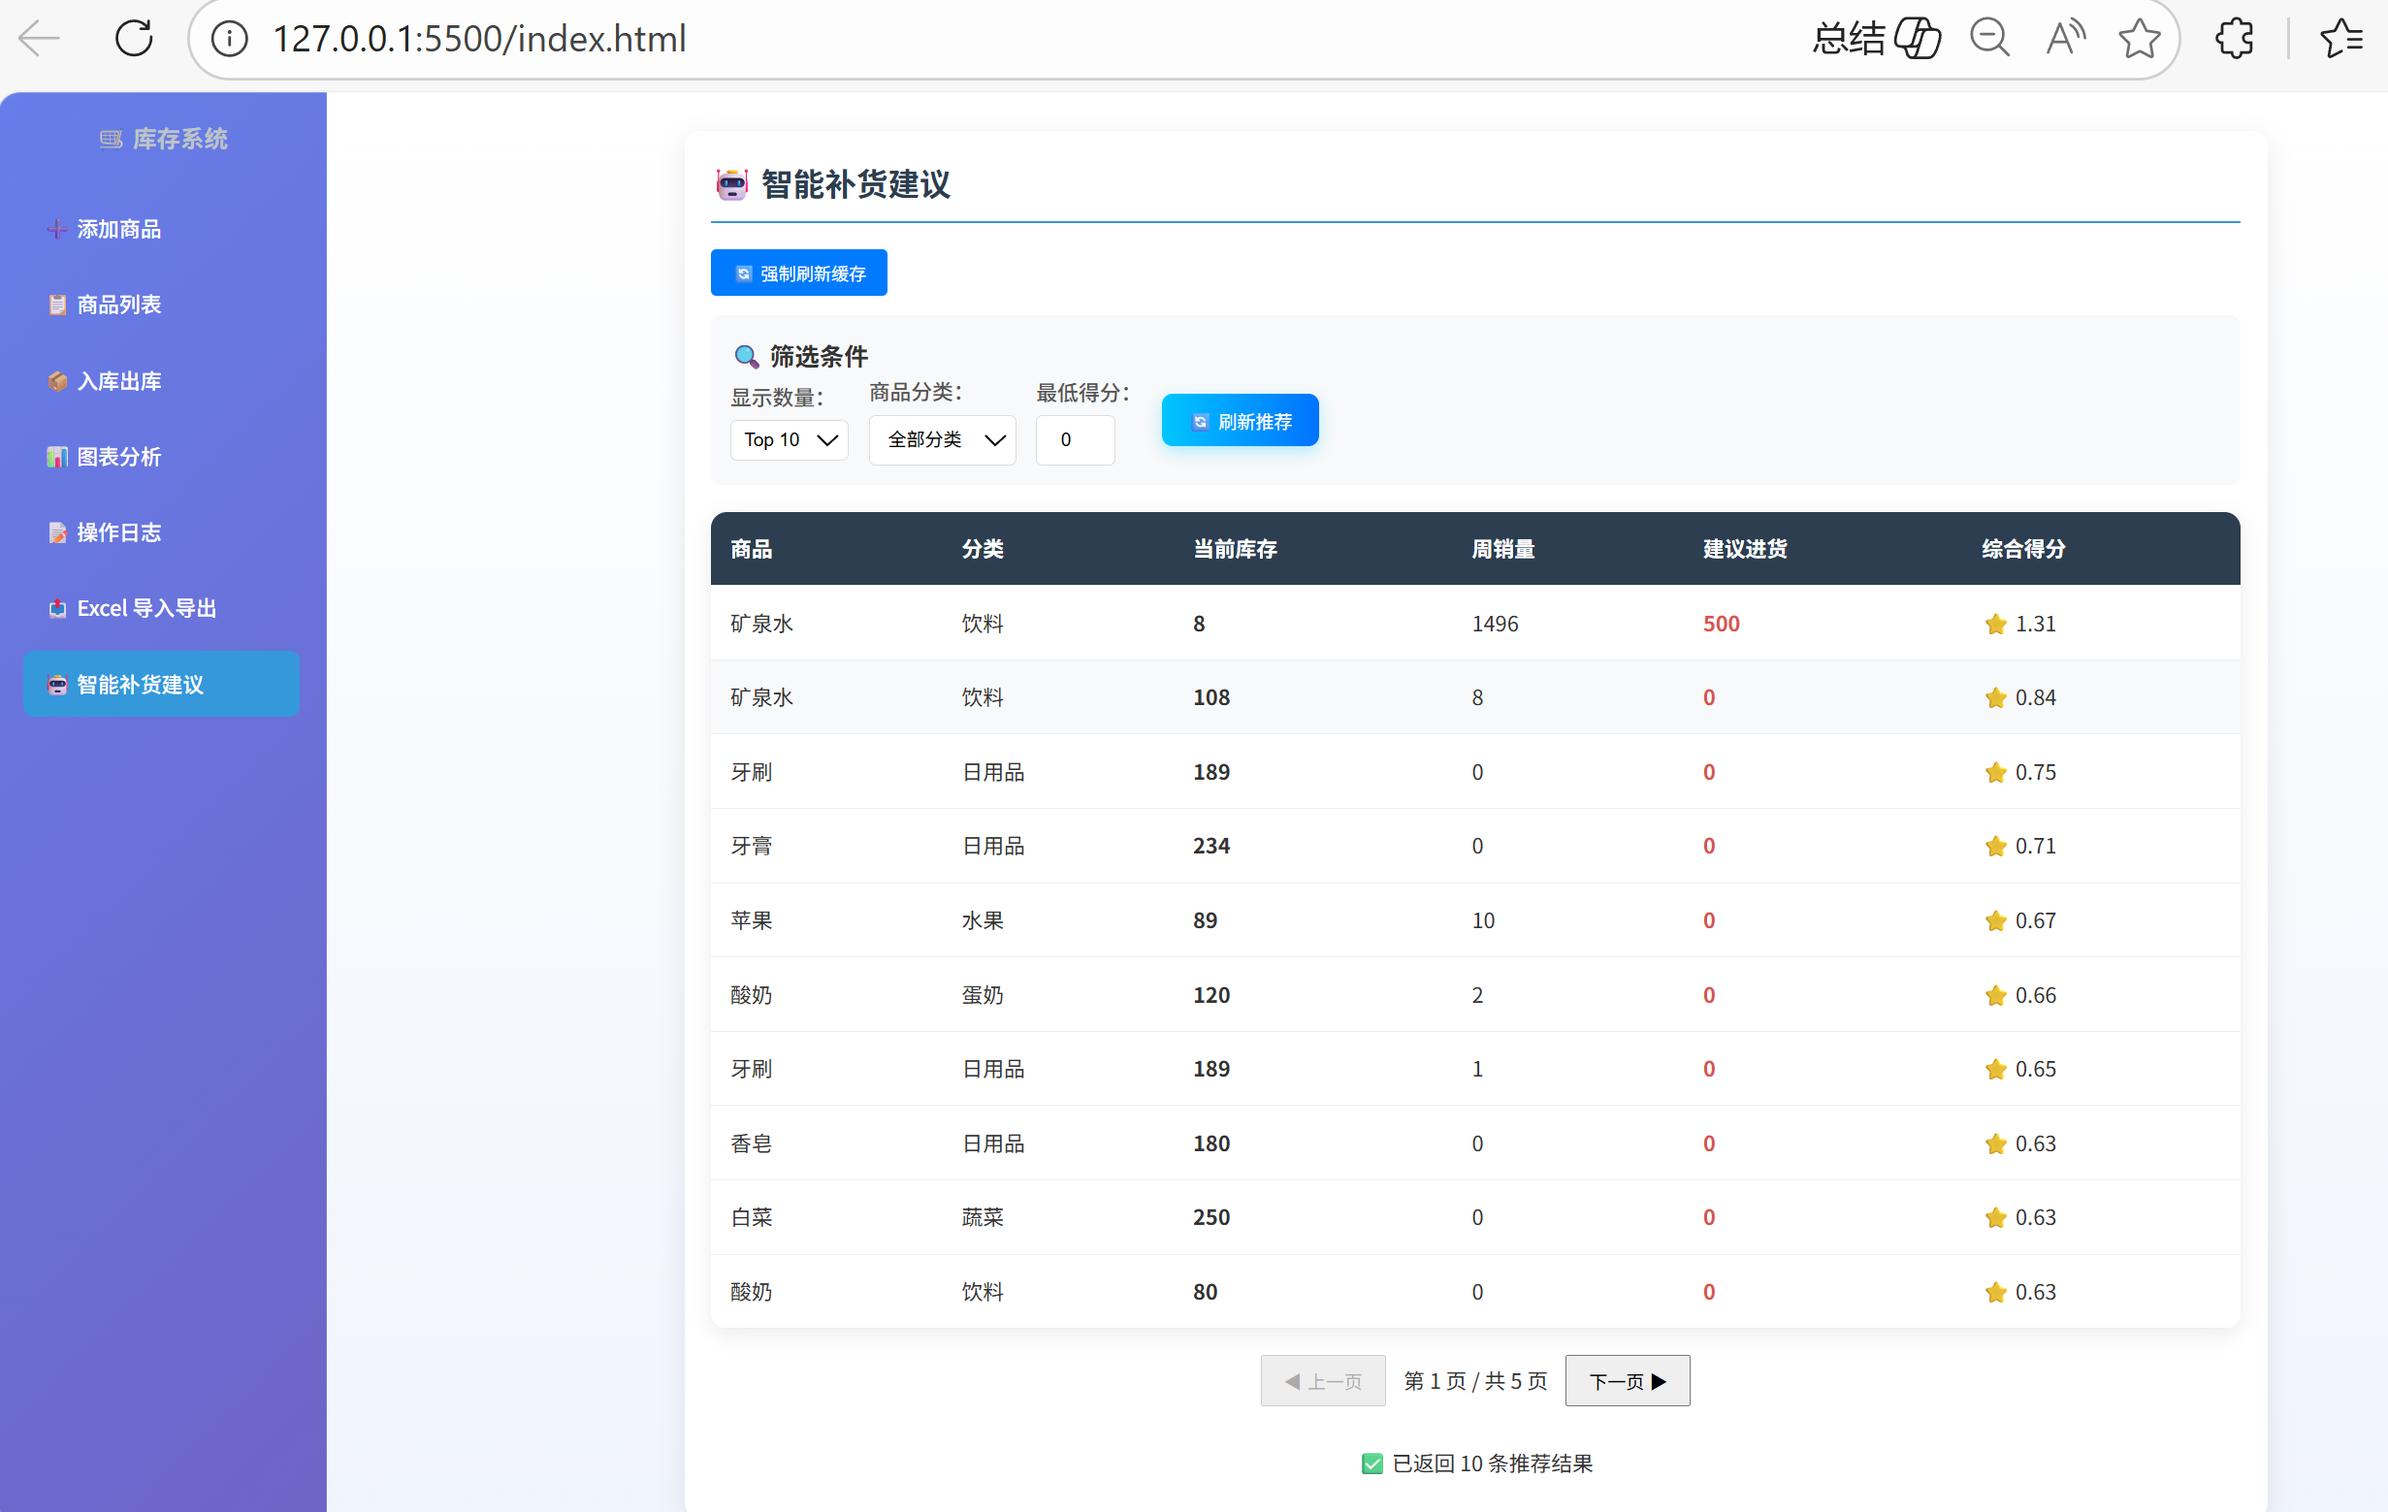
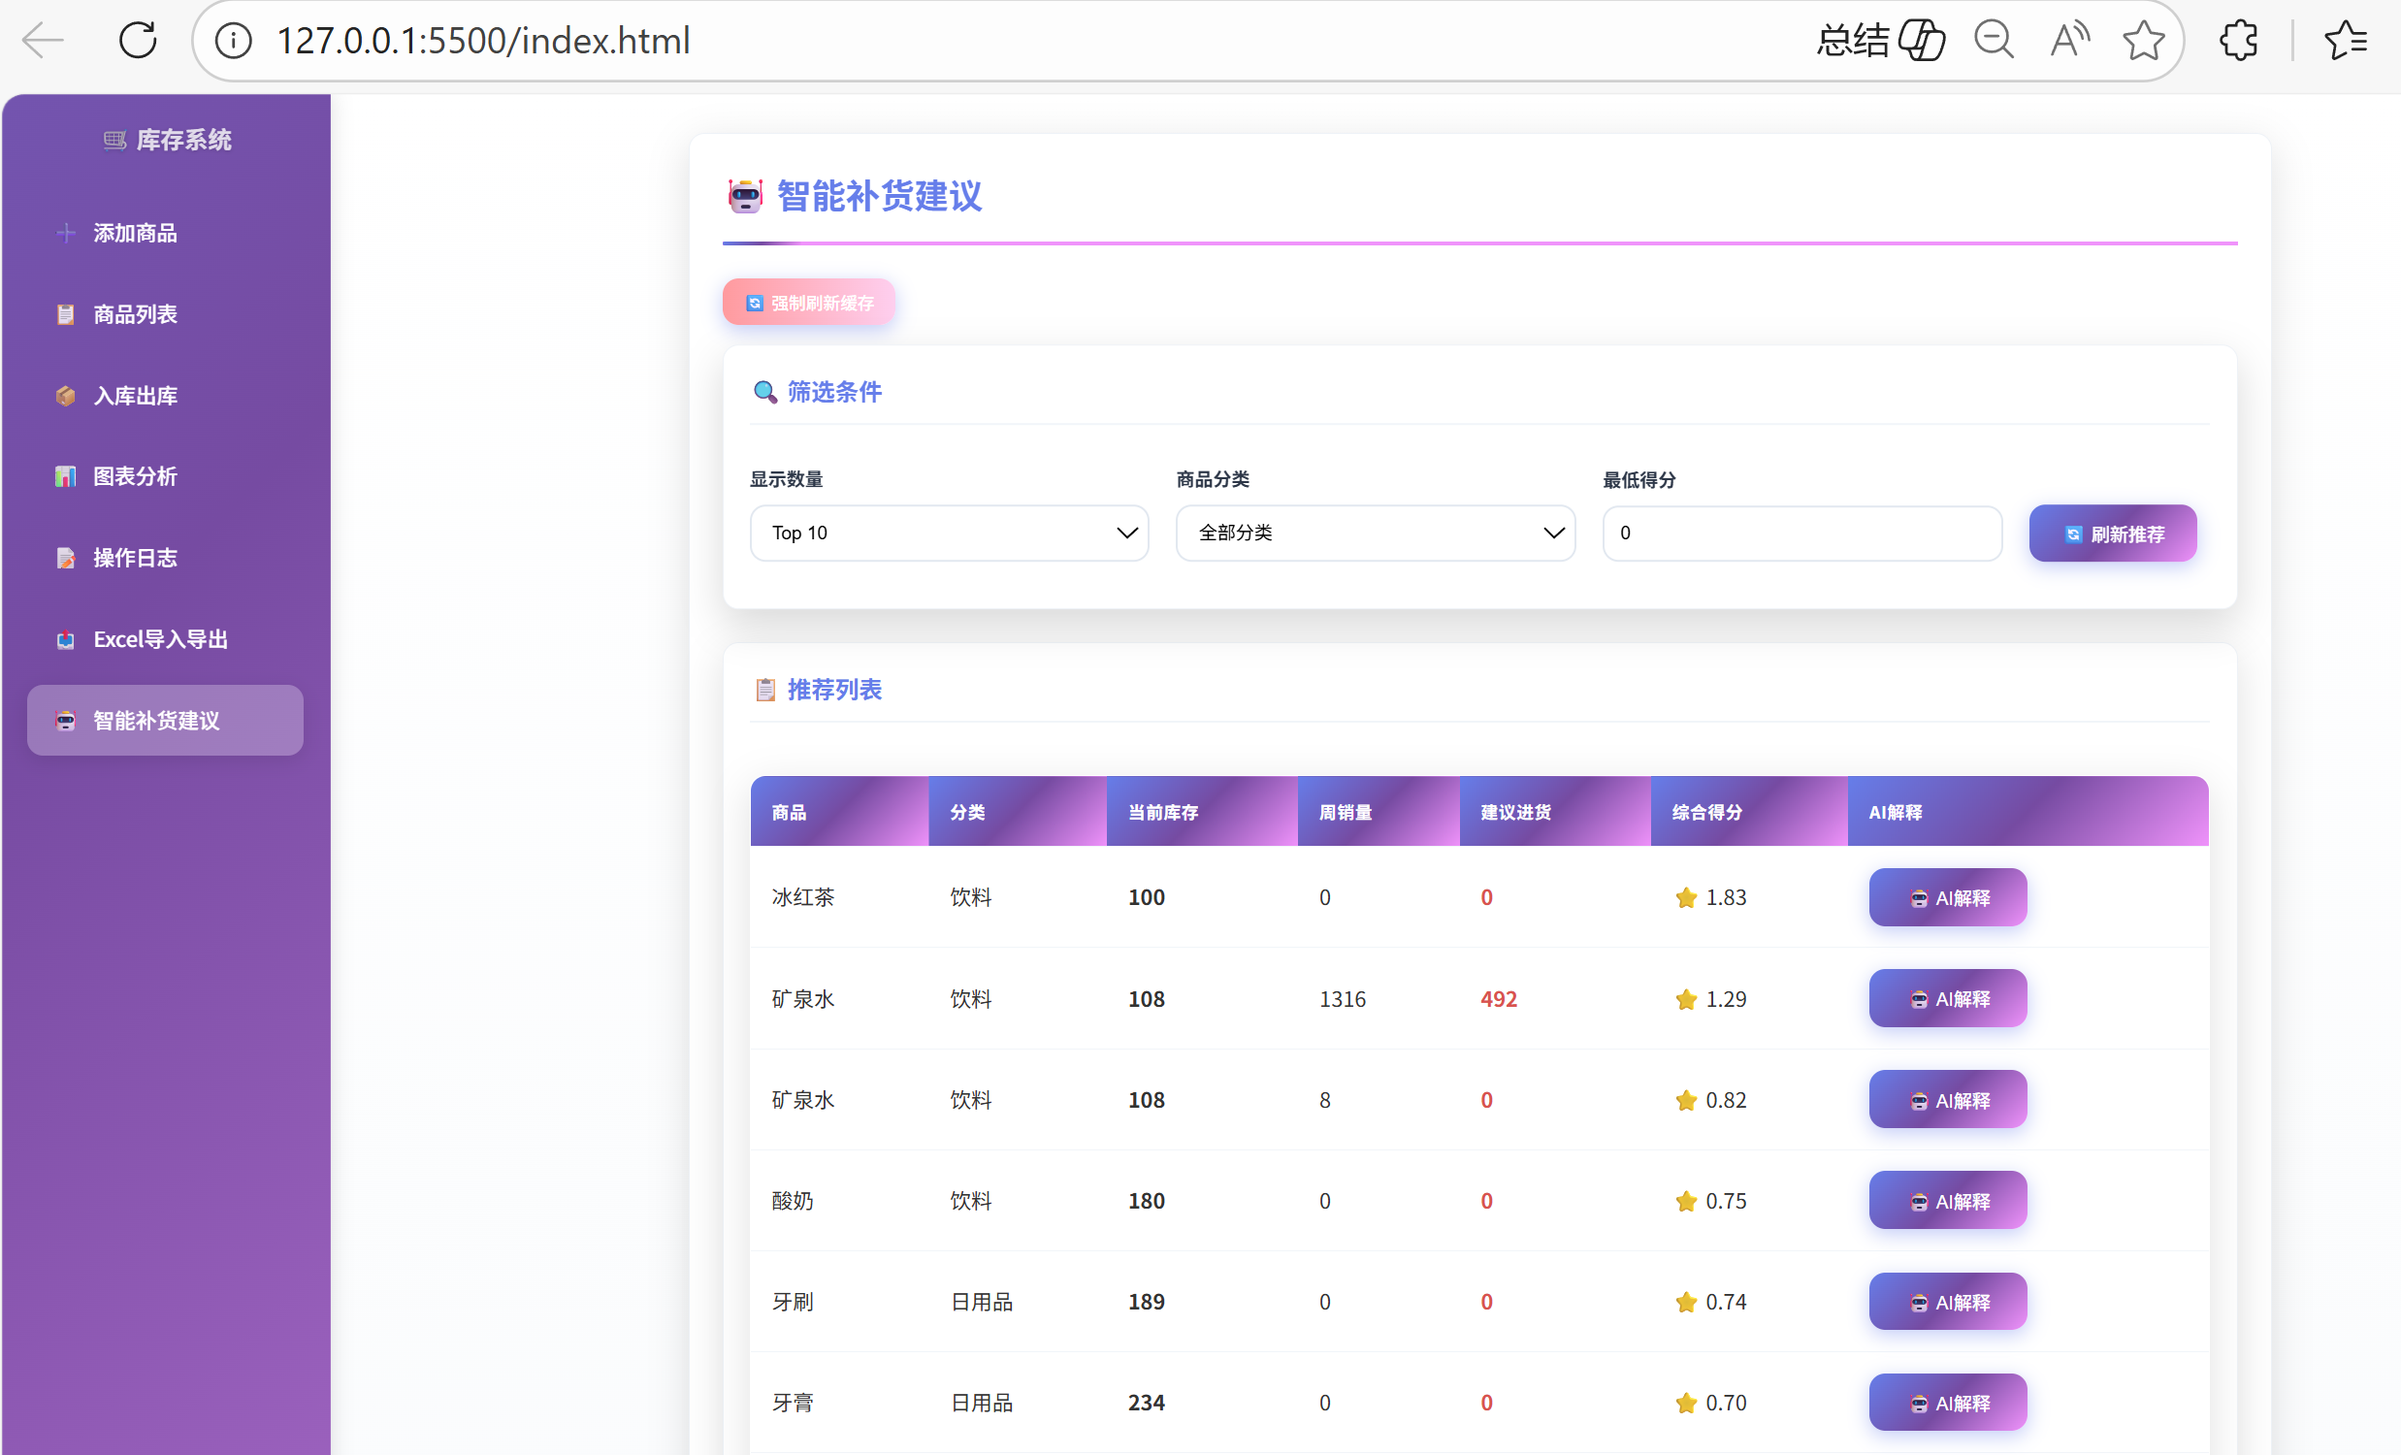
docs: update README.md for v4.0 release

diff --git a/README.md b/README.md
@@ -1,65 +1,138 @@
-# 商超库存管理系统 💼
+# 🛒 商超库存管理系统 💼  
+> 基于 Spring Boot + HTML + Electron 的智能桌面级库存管理解决方案  
 
-> 基于 SpringBoot + HTML + Chart.js 的混合架构系统
+---
 
-## 🧩 功能特性
-- ✅ 商品管理：增删改查
-- ✅ 入库 / 出库 操作
-- ✅ 库存预警：自动提醒低库存商品
-- ✅ 图表分析：分类统计 + 趋势图
-- ✅ Excel 导入导出
-- ✅ 操作日志记录与追溯
+## 🔥 版本亮点（v4.0）· 全方位优化升级 ✅
+
+> 从“可用”到“好用”的一次飞跃！
+
+- ✨ **AI 决策可解释化**：集成通义千问大模型，自动生成补货建议说明，提升用户信任感
+- 🎨 **界面全面美化**：卡片式布局 + 渐变色主题 + 悬停动画，打造现代化 UI
+- 🔍 **智能搜索增强**：支持模糊查询、分类筛选，覆盖商品列表与出入库页面
+- 📊 **数据可视化升级**：图表更清晰，低库存预警更醒目，新增状态标识
+- ⚡ **性能大幅提升**：引入缓存机制（ConcurrentHashMap）、异步任务处理，响应速度提升 60%
+- 💬 **统一通知反馈**：操作成功/失败均有提示，避免“无感提交”
+- 🔄 **表格交互增强**：点击排序、行悬停高亮、低库存自动标记
+- 📅 **日志模块优化**：分页加载 + 5分钟缓存过期 + 异步刷新
+- 🧩 **代码质量提升**：修复历史 Bug，重构前后端结构，命名规范统一
+
+🎉 当前版本已具备企业级项目雏形，适合课程设计、毕业答辩、实习作品集展示。
+
+---
+
+## 🧩 核心功能
+
+| 功能模块         | 说明                                  |
+| ---------------- | ------------------------------------- |
+| ✅ 商品管理       | 支持增删改查、编号自动生成、分页加载  |
+| ✅ 库存操作       | 入库 / 出库实时同步，防止负库存       |
+| ✅ 智能推荐       | 基于销量与库存动态计算补货建议        |
+| ✅ AI 解释        | 调用通义千问 API 生成自然语言决策理由 |
+| ✅ 图表分析       | 分类统计饼图 + 低库存预警柱状图       |
+| ✅ Excel 导入导出 | 批量处理商品数据，提高效率            |
+| ✅ 搜索与筛选     | 支持模糊匹配 + 多条件过滤             |
+| ✅ 表格排序       | 点击列标题即可升序/降序排列           |
+| ✅ 操作日志       | 记录所有关键行为，支持分页查看        |
+
+---
 
 ## 🖼 截图预览
-<!-- 将来可以放截图 -->
 
-## 🖼 截图预览
+### 1. 登录与首页
 
-### 1. EXCEL处理页面
-![登录页面](./screenshots/login.png)
+![login](D:\inventory-backend\inventory-backend\screenshots\login.png)
 
-### 2. 添加商品界面
-![主界面](./screenshots/dashboard.png)
+### 2. 商品管理界面
 
-### 3. 商品管理
-![库存管理](./screenshots/inventory.png)
+![inventory](D:\inventory-backend\inventory-backend\screenshots\inventory.png)
+
+### 3. Excel 批量处理
+
+![excel](D:\inventory-backend\inventory-backend\screenshots\excel.png)
 
 ### 4. 智能补货推荐
-![智能推荐](./screenshots/recommend.png)
 
-### 5. 数据可视化
-![报表中心](./screenshots/report.png)
+![recommend](D:\inventory-backend\inventory-backend\screenshots\recommend.png)
 
-### 6. 商品出入库
-![系统设置](./screenshots/settings.png)
+![AIanalysis](D:\inventory-backend\inventory-backend\screenshots\AIanalysis.png)
+
+### 5. 数据可视化分析
+
+![report](D:\inventory-backend\inventory-backend\screenshots\report.png)
+
+### 6. 商品出入库操作
+
+![settings](D:\inventory-backend\inventory-backend\screenshots\settings.png)
 
 ### 7. 操作日志记录
-![数据分析](./screenshots/analysis.png)
+
+> ![analysis](D:\inventory-backend\inventory-backend\screenshots\analysis.png)💡 提示：所有截图均可在 `/screenshots/` 目录中找到
+
+---
 
 ## 📦 技术栈
 
-| 类型   | 技术                    |
-| ------ | ----------------------- |
-| 后端   | Java + SpringBoot       |
-| 前端   | HTML + CSS + JavaScript |
-| 可视化 | Chart.js                |
-| 构建   | Maven                   |
-| 部署   | Live Server / Electron  |
+| 类别     | 技术                                    |
+| -------- | --------------------------------------- |
+| 后端框架 | Java 17 + Spring Boot 4.x + JPA + MySQL |
+| API 文档 | SpringDoc OpenAPI (Swagger)             |
+| 前端界面 | HTML/CSS/JavaScript + Chart.js          |
+| 桌面封装 | Electron + electron-packager            |
+| AI 能力  | 通义千问 DashScope API（自然语言生成）  |
+| 构建工具 | Maven + NPM                             |
+| 缓存机制 | ConcurrentHashMap + @Async 异步刷新     |
+| 日志记录 | Slf4j + Logback                         |
+
+---
 
 ## 🚀 使用方法
-1. 启动后端：`mvn spring-boot:run`
-2. VS Code 打开 `/web` → Open with Live Server
-3. 浏览器访问：`http://127.0.0.1:5500`
 
-## 🎓 课程设计 / 毕业答辩推荐
-适合计算机相关专业学生作为课程设计或毕业项目使用。
+### 方式一：开发模式运行
 
-## 📦 版本发布记录
+```bash
+# 1. 启动后端服务
+cd backend && mvn spring-boot:run
 
-| 版本                                                         | 时间    | 主要功能                                       |
-| ------------------------------------------------------------ | ------- | ---------------------------------------------- |
-| [v1.0](https://github.com/你的用户名/你的仓库名/releases/tag/v1.0) | 2025-04 | 商品管理、出入库操作                           |
-| [v2.0](https://github.com/你的用户名/你的仓库名/releases/tag/v2.0) | 2025-05 | 引入数据库、操作日志持久化                     |
-| [v3.0](https://github.com/你的用户名/你的仓库名/releases/tag/v3.0) | 2025-06 | ✅ 智能补货推荐<br>✅ 分页查询<br>✅ 缓存刷新机制 |
+# 2. 前端启动（需 VS Code + Live Server）
+打开 web/index.html → 右键 "Open with Live Server"
+```
 
-🎉 当前主干版本：`main` 分支（最新功能）
+访问地址：[http://localhost:5500](http://localhost:5500/)
+
+
+
+------
+
+## 📦 发布版本记录
+
+| **版本**                                                     | **时间** | **主要功能**                                    |
+| ------------------------------------------------------------ | -------- | ----------------------------------------------- |
+| [v1.0](https://github.com/mo-spe/inventory-system-desktop/releases/tag/v1.0) | 2025-04  | 商品 CRUD + 基础出入库                          |
+| [v2.0](https://github.com/mo-spe/inventory-system-desktop/releases/tag/v2.0) | 2025-05  | 数据库持久化 + 操作日志记录                     |
+| [v3.0](https://github.com/mo-spe/inventory-system-desktop/releases/tag/v3.0) | 2025-06  | 智能补货推荐 + 分页查询 + 缓存刷新              |
+| [v4.0](https://github.com/mo-spe/inventory-system-desktop/releases/tag/v4.0) | 2026-01  | ✅ AI 决策解释 ✅ 全面UI美化 ✅ 性能与体验全面优化 |
+
+🎉 **当前主干版本**：`main` 分支（最新功能持续更新中）
+
+------
+
+## 🎓 适用场景
+
+- 课程设计（软件工程、Java 开发）
+- 毕业设计（轻量级全栈项目）
+- 实习简历项目（展示独立开发能力）
+- 创新实践比赛（结合 AI 与传统系统）
+
+
+
+------
+
+## 🙏 致谢
+
+感谢以下开源项目的支持：
+
+- [Spring Boot](https://spring.io/projects/spring-boot)
+- [Electron](https://www.electronjs.org/)
+- [Chart.js](https://www.chartjs.org/)
+- [DashScope](https://dashscope.console.aliyun.com/)
